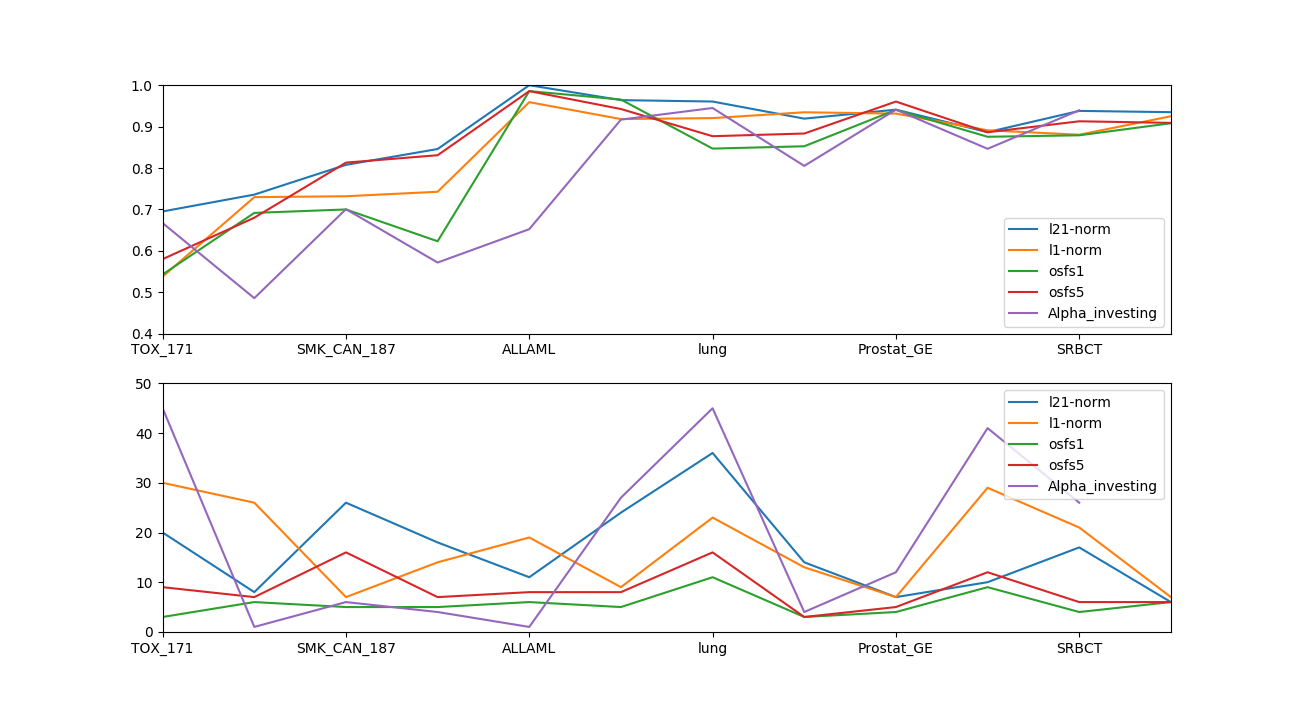
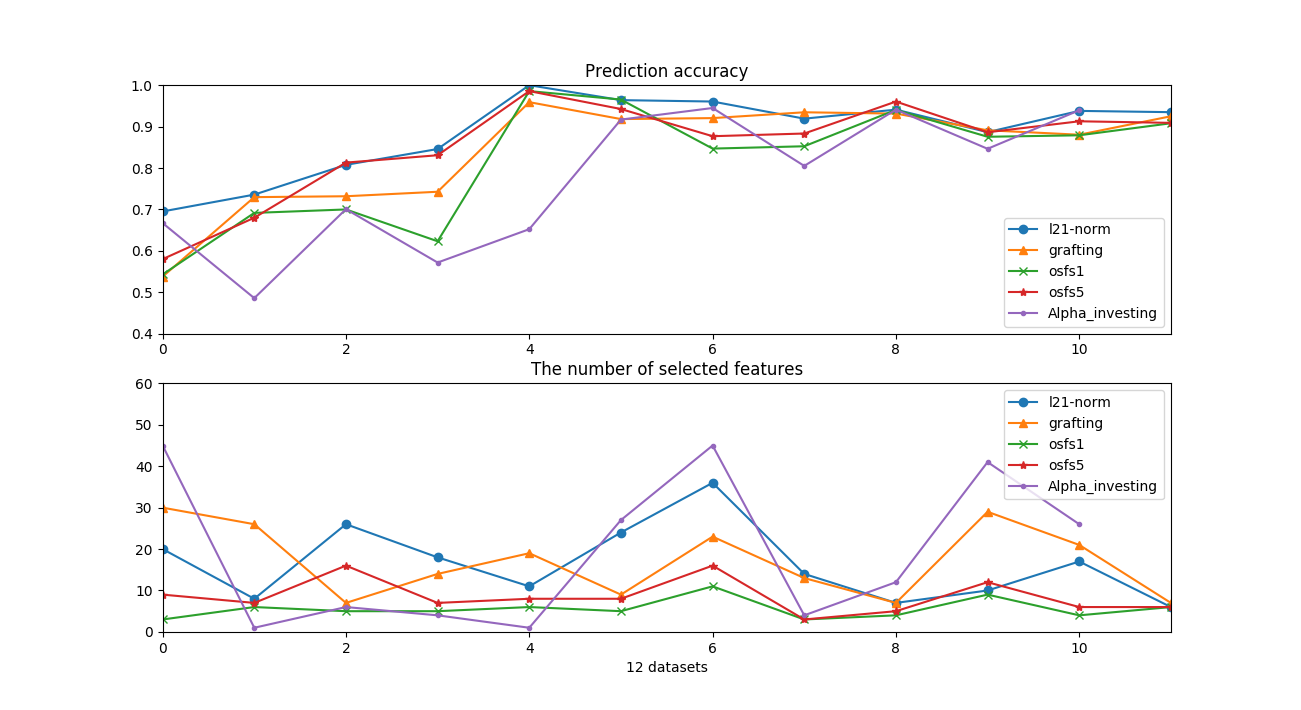
update datas/gene/all_result/ folder

diff --git a/datas/gene/all_result/draw_epsilon.py b/datas/gene/all_result/draw_epsilon.py
@@ -17,11 +17,14 @@ def read_output_epsilon(fname):
     return res_cls.drop(0.0), res_nfs.drop(0.0)
     
 
-def draw(cls, nfs):
+def draw(cls, nfs, output_fname):
     fig, axes = plt.subplots(2, 1)
     cls.plot(ax=axes[0], style='o-', ylim=(0.7, 1.0), title='Prediction accuracy')
     nfs.plot(ax=axes[1], style='*-', ylim=(0, 50), title='The number of selected features')
     plt.xlabel('epsilon')
+    #plt.show()
+    plt.savefig("%s.png"%output_fname)
+    plt.close()
 
 
 if __name__ == '__main__':
@@ -31,6 +34,4 @@ if __name__ == '__main__':
     output_fname = "opt_epsilon_on_%s"%fname.split('.')[0][:-4]
     cls.to_csv("%s_cls.csv"%output_fname)
     nfs.to_csv("%s_nfs.csv"%output_fname)
-    draw(cls, nfs)
-    plt.show()
-    plt.savefig("%s.png"%output_fname)
+    draw(cls, nfs, output_fname)
